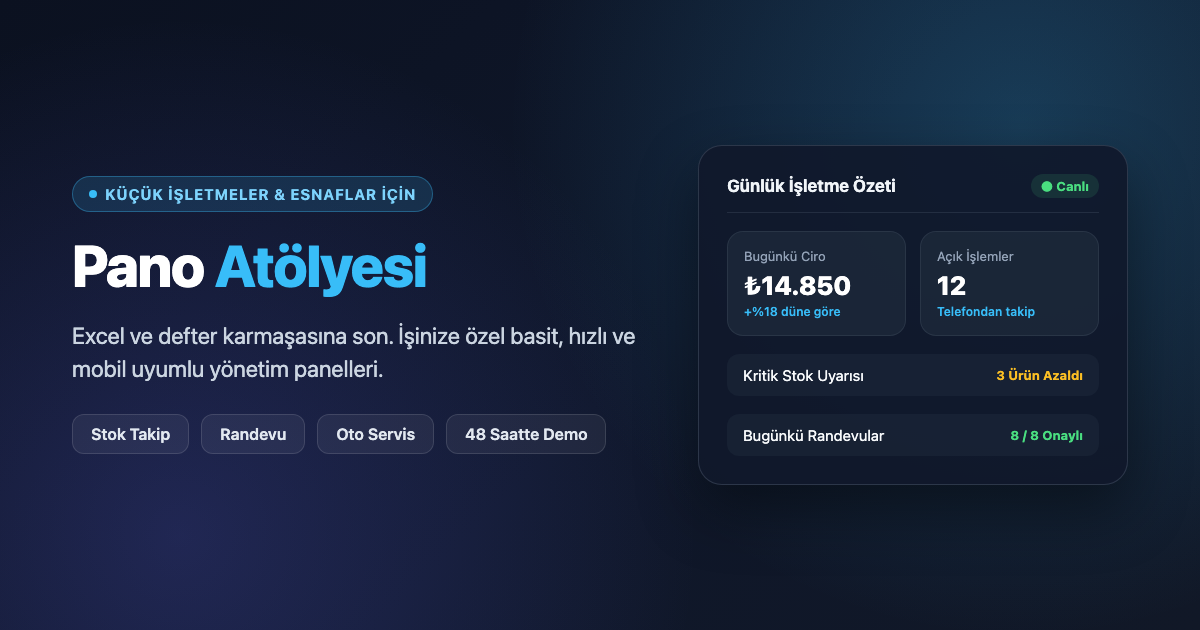
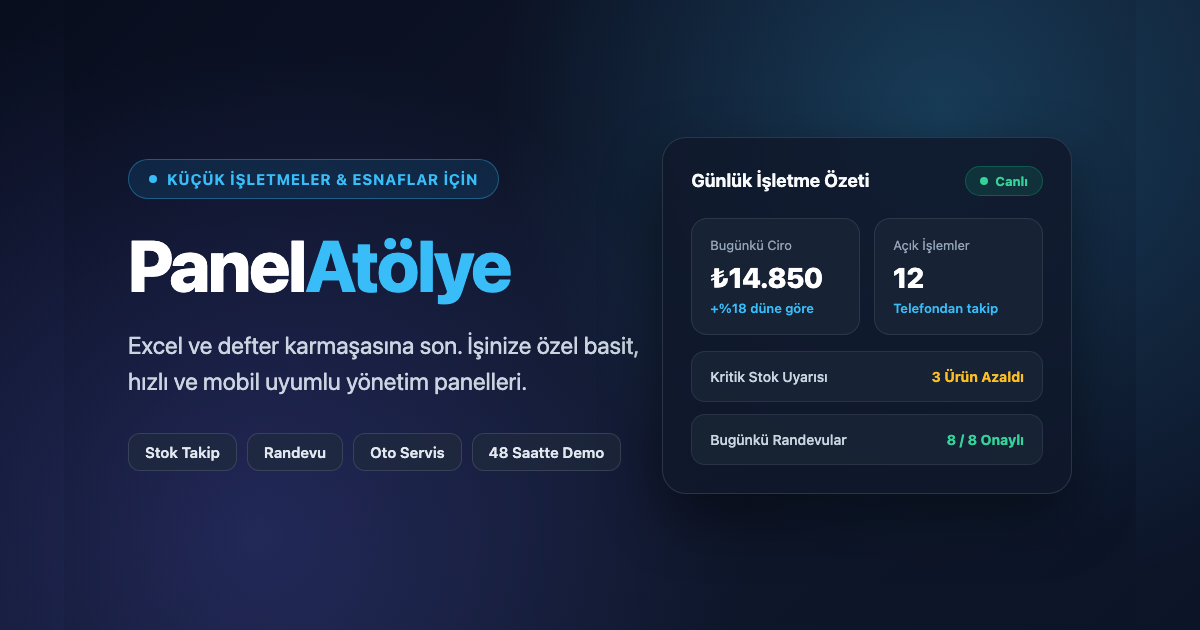
Rename brand back to PanelAtolye across site and og-image

diff --git a/index.html b/index.html
@@ -3,7 +3,7 @@
 <head>
   <meta charset="UTF-8" />
   <meta name="viewport" content="width=device-width, initial-scale=1.0" />
-  <title>Pano Atölyesi | Küçük İşletmeler İçin Özel Yönetim Panelleri</title>
+  <title>PanelAtölye | Küçük İşletmeler İçin Özel Yönetim Panelleri</title>
   <link rel="icon" type="image/svg+xml" href="logo.svg" />
   <meta name="description" content="Küçük işletmeniz için Excel ve defter karmaşasına son veren, ihtiyacınıza özel basit, hızlı ve mobil uyumlu yönetim panelleri. Ücretsiz talep oluşturun." />
   <meta name="keywords" content="küçük işletme paneli, özel yönetim paneli, stok takip paneli, randevu takip sistemi, esnaf için yazılım, basit crm" />
@@ -12,7 +12,7 @@
 
   <!-- Open Graph / Sosyal Medya Önizleme -->
   <meta property="og:type" content="website" />
-  <meta property="og:title" content="Pano Atölyesi | Küçük İşletmeler İçin Özel Yönetim Panelleri" />
+  <meta property="og:title" content="PanelAtölye | Küçük İşletmeler İçin Özel Yönetim Panelleri" />
   <meta property="og:description" content="İşinizi kolaylaştıran, sadece ihtiyacınız olan özelliklere sahip basit yönetim panelleri tasarlıyoruz." />
   <meta property="og:locale" content="tr_TR" />
   <link rel="canonical" href="https://opperator04.github.io/panel-atolye/" />
@@ -21,7 +21,7 @@
     <meta property="og:image:width" content="1200" />
     <meta property="og:image:height" content="630" />
   <meta name="twitter:card" content="summary_large_image" />
-  <meta name="twitter:title" content="Pano Atölyesi | Küçük İşletmeler İçin Özel Yönetim Panelleri" />
+  <meta name="twitter:title" content="PanelAtölye | Küçük İşletmeler İçin Özel Yönetim Panelleri" />
   <meta name="twitter:description" content="Excel ve defter karmaşasına son veren, ihtiyacınıza özel basit, hızlı ve mobil uyumlu yönetim panelleri." />
     <meta name="twitter:image" content="https://opperator04.github.io/panel-atolye/og-image.png" />
 
@@ -31,7 +31,7 @@
     "@graph": [
       {
         "@type": "ProfessionalService",
-        "name": "Pano Atölyesi",
+        "name": "PanelAtölye",
         "url": "https://opperator04.github.io/panel-atolye/",
         "description": "Küçük işletmeler ve esnaflar için Excel ve kağıt defter karmaşasına son veren özel yönetim, stok, randevu ve sipariş takip panelleri.",
         "areaServed": "TR",
@@ -90,7 +90,7 @@
   <header class="navbar">
     <div class="container nav-inner">
       <a href="#" class="brand">
-        <img src="logo.svg" alt="Pano Atölyesi" class="brand-logo" />
+        <img src="logo.svg" alt="PanelAtölye" class="brand-logo" />
       </a>
 
       <nav class="nav-links" aria-label="Ana menü">
@@ -413,7 +413,7 @@
   <footer class="footer">
     <div class="container footer-inner">
       <div>
-        <strong class="brand-text">Pano <span>Atölyesi</span></strong>
+        <strong class="brand-text">Panel<span>Atölye</span></strong>
         <p>Küçük işletmeler için sade, hızlı ve özel yönetim panelleri.</p>
       </div>
       <div class="footer-links">

diff --git a/randevu-takip-paneli.html b/randevu-takip-paneli.html
@@ -3,7 +3,7 @@
 <head>
   <meta charset="UTF-8" />
   <meta name="viewport" content="width=device-width, initial-scale=1.0" />
-  <title>Kuaför, Klinik ve Esnaf İçin Basit Randevu Takip Paneli | Pano Atölyesi</title>
+  <title>Kuaför, Klinik ve Esnaf İçin Basit Randevu Takip Paneli | PanelAtölye</title>
   <link rel="icon" type="image/svg+xml" href="logo.svg" />
   <meta name="description" content="Kağıt ajanda ve WhatsApp karmaşasına son veren, kuaför, güzellik salonu, klinik ve danışmanlık işletmelerine özel mobil uyumlu randevu takip paneli. 48 saatte ücretsiz demo." />
   <meta name="robots" content="index, follow" />
@@ -11,7 +11,7 @@
 
   <meta property="og:type" content="website" />
   <meta property="og:url" content="https://opperator04.github.io/panel-atolye/randevu-takip-paneli.html" />
-  <meta property="og:title" content="Küçük İşletmeler İçin Basit Randevu Takip Paneli | Pano Atölyesi" />
+  <meta property="og:title" content="Küçük İşletmeler İçin Basit Randevu Takip Paneli | PanelAtölye" />
   <meta property="og:description" content="Müşteri randevularını, saatleri ve işlem geçmişini telefonunuzdan 5 saniyede yönetin." />
   <meta property="og:locale" content="tr_TR" />
 
@@ -24,7 +24,7 @@
   {
     "@context": "https://schema.org",
     "@type": "SoftwareApplication",
-    "name": "Pano Atölyesi Özel Randevu Takip Paneli",
+    "name": "PanelAtölye Özel Randevu Takip Paneli",
     "applicationCategory": "BusinessApplication",
     "operatingSystem": "Web, iOS, Android",
     "description": "Kuaförler, güzellik salonları, klinikler ve randevulu çalışan küçük işletmeler için sade, mobil uyumlu özel randevu takip paneli.",
@@ -41,7 +41,7 @@
   <header class="navbar">
     <div class="container nav-inner">
       <a href="index.html" class="brand">
-        <img src="logo.svg" alt="Pano Atölyesi" class="brand-logo" />
+        <img src="logo.svg" alt="PanelAtölye" class="brand-logo" />
       </a>
       <nav class="nav-links" aria-label="Ana menü">
         <a href="index.html#ornekler">Örnek Paneller</a>
@@ -106,7 +106,7 @@
   <footer class="footer">
     <div class="container footer-inner">
       <div>
-        <strong class="brand-text">Pano <span>Atölyesi</span></strong>
+        <strong class="brand-text">Panel<span>Atölye</span></strong>
         <p>Küçük işletmeler için sade, hızlı ve özel yönetim panelleri.</p>
       </div>
       <div class="footer-links">

diff --git a/stok-takip-paneli.html b/stok-takip-paneli.html
@@ -3,7 +3,7 @@
 <head>
   <meta charset="UTF-8" />
   <meta name="viewport" content="width=device-width, initial-scale=1.0" />
-  <title>Esnaf ve Küçük İşletmeler İçin Basit Stok Takip Paneli | Pano Atölyesi</title>
+  <title>Esnaf ve Küçük İşletmeler İçin Basit Stok Takip Paneli | PanelAtölye</title>
   <link rel="icon" type="image/svg+xml" href="logo.svg" />
   <meta name="description" content="Excel ve kağıt defterle stok saymaktan yorulan küçük işletmeler için telefondan ve bilgisayardan kullanılan özel stok takip paneli. 48 saatte ücretsiz demo." />
   <meta name="robots" content="index, follow" />
@@ -11,7 +11,7 @@
 
   <meta property="og:type" content="website" />
   <meta property="og:url" content="https://opperator04.github.io/panel-atolye/stok-takip-paneli.html" />
-  <meta property="og:title" content="Küçük İşletmeler İçin Basit Stok Takip Paneli | Pano Atölyesi" />
+  <meta property="og:title" content="Küçük İşletmeler İçin Basit Stok Takip Paneli | PanelAtölye" />
   <meta property="og:description" content="Karmaşık ERP yazılımları olmadan ürün giriş-çıkışı, kritik stok uyarısı ve günlük satış takibi yapın." />
   <meta property="og:locale" content="tr_TR" />
 
@@ -24,7 +24,7 @@
   {
     "@context": "https://schema.org",
     "@type": "SoftwareApplication",
-    "name": "Pano Atölyesi Özel Stok Takip Paneli",
+    "name": "PanelAtölye Özel Stok Takip Paneli",
     "applicationCategory": "BusinessApplication",
     "operatingSystem": "Web, iOS, Android",
     "description": "Küçük işletmeler, butikler, yedek parçacılar ve depolar için sade, mobil uyumlu özel stok takip paneli.",
@@ -41,7 +41,7 @@
   <header class="navbar">
     <div class="container nav-inner">
       <a href="index.html" class="brand">
-        <img src="logo.svg" alt="Pano Atölyesi" class="brand-logo" />
+        <img src="logo.svg" alt="PanelAtölye" class="brand-logo" />
       </a>
       <nav class="nav-links" aria-label="Ana menü">
         <a href="index.html#ornekler">Örnek Paneller</a>
@@ -107,7 +107,7 @@
   <footer class="footer">
     <div class="container footer-inner">
       <div>
-        <strong class="brand-text">Pano <span>Atölyesi</span></strong>
+        <strong class="brand-text">Panel<span>Atölye</span></strong>
         <p>Küçük işletmeler için sade, hızlı ve özel yönetim panelleri.</p>
       </div>
       <div class="footer-links">

diff --git a/oto-servis-takip-paneli.html b/oto-servis-takip-paneli.html
@@ -3,7 +3,7 @@
 <head>
   <meta charset="UTF-8" />
   <meta name="viewport" content="width=device-width, initial-scale=1.0" />
-  <title>Oto Servis ve Tamirhaneler İçin Araç & Müşteri Takip Paneli | Pano Atölyesi</title>
+  <title>Oto Servis ve Tamirhaneler İçin Araç & Müşteri Takip Paneli | PanelAtölye</title>
   <link rel="icon" type="image/svg+xml" href="logo.svg" />
   <meta name="description" content="Oto tamir, bakım ve yedek parça servisleri için plaka bazlı araç geçmişi, değişen parça ve bakım hatırlatma takip paneli. 48 saatte ücretsiz demo." />
   <meta name="robots" content="index, follow" />
@@ -11,7 +11,7 @@
 
   <meta property="og:type" content="website" />
   <meta property="og:url" content="https://opperator04.github.io/panel-atolye/oto-servis-takip-paneli.html" />
-  <meta property="og:title" content="Oto Servis İçin Basit Araç & Bakım Takip Paneli | Pano Atölyesi" />
+  <meta property="og:title" content="Oto Servis İçin Basit Araç & Bakım Takip Paneli | PanelAtölye" />
   <meta property="og:description" content="Plaka yazın, müşterinin geçmiş bakımlarını ve değişen parçalarını saniyeler içinde görün." />
   <meta property="og:locale" content="tr_TR" />
 
@@ -24,7 +24,7 @@
   {
     "@context": "https://schema.org",
     "@type": "SoftwareApplication",
-    "name": "Pano Atölyesi Oto Servis Takip Paneli",
+    "name": "PanelAtölye Oto Servis Takip Paneli",
     "applicationCategory": "BusinessApplication",
     "operatingSystem": "Web, iOS, Android",
     "description": "Oto tamirhaneler, bakım servisleri ve oto elektrikçiler için plaka bazlı müşteri, parça ve bakım takip paneli.",
@@ -41,7 +41,7 @@
   <header class="navbar">
     <div class="container nav-inner">
       <a href="index.html" class="brand">
-        <img src="logo.svg" alt="Pano Atölyesi" class="brand-logo" />
+        <img src="logo.svg" alt="PanelAtölye" class="brand-logo" />
       </a>
       <nav class="nav-links" aria-label="Ana menü">
         <a href="index.html#ornekler">Örnek Paneller</a>
@@ -106,7 +106,7 @@
   <footer class="footer">
     <div class="container footer-inner">
       <div>
-        <strong class="brand-text">Pano <span>Atölyesi</span></strong>
+        <strong class="brand-text">Panel<span>Atölye</span></strong>
         <p>Küçük işletmeler için sade, hızlı ve özel yönetim panelleri.</p>
       </div>
       <div class="footer-links">

diff --git a/app.js b/app.js
@@ -92,7 +92,7 @@ document.addEventListener("DOMContentLoaded", () => {
             body: JSON.stringify({
               access_key: SITE_CONFIG.web3formsKey,
               subject: `Yeni Panel Talebi: ${businessName}`,
-              from_name: "Pano Atölyesi Talep Formu",
+              from_name: "PanelAtölye Talep Formu",
               fullName,
               businessName,
               phone,
